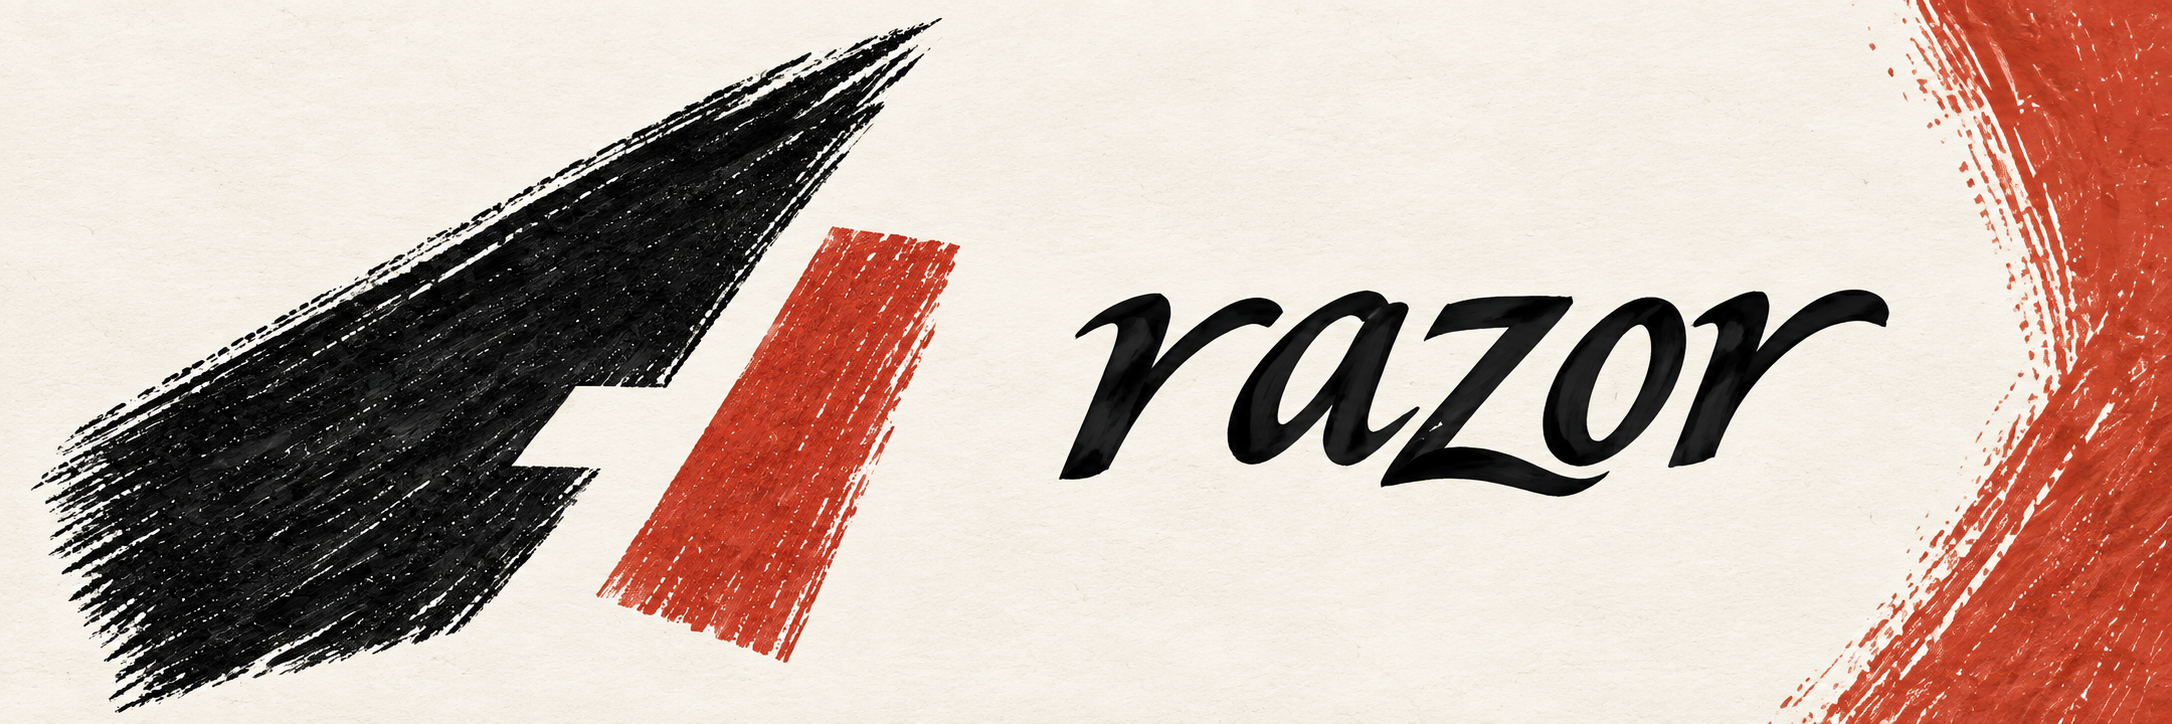
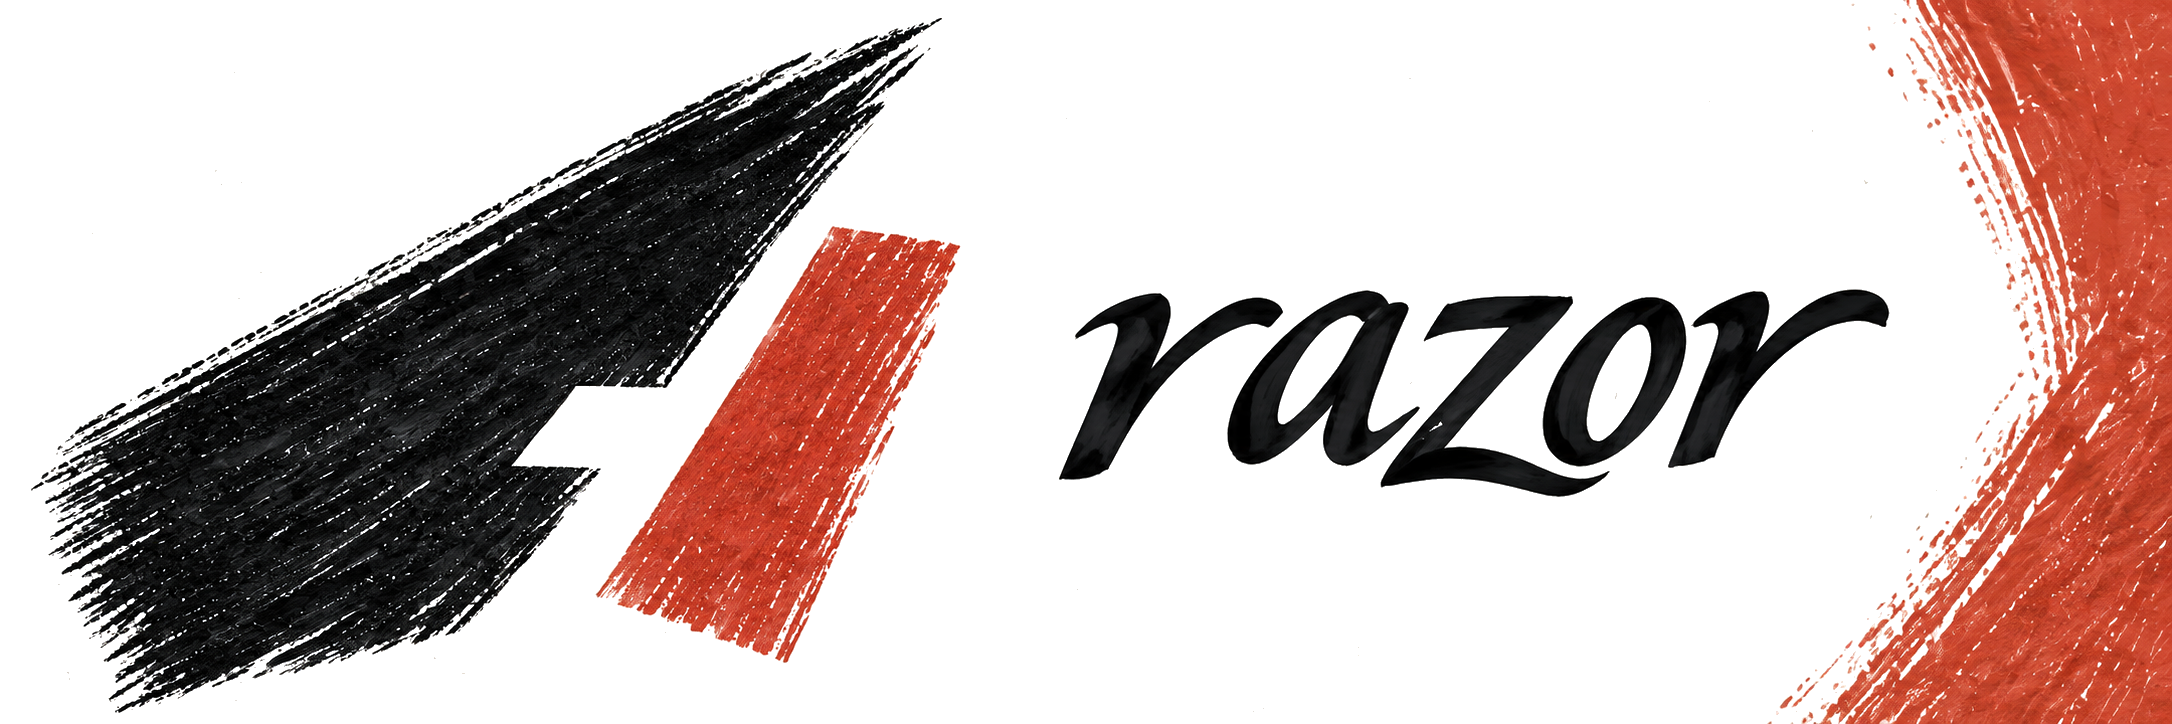
Restore product heroes and refine branding presentation (#7)

diff --git a/README.md b/README.md
@@ -16,6 +16,19 @@
 
 > **TL;DR** — Before adding code, ask whether the project already has what it needs.
 
+<!-- foundry:hero -->
+<p align="center"><img src="assets/hero.svg" alt="Razor original product visualization" width="700"></p>
+
+Original Claude Code benchmark visualization. These measurements describe the recorded Claude sessions, not Codex performance. [Evidence and methodology](https://github.com/V-Songbird/foundry/tree/main/docs/razor).
+
+<details>
+<summary>Watch the recorded Claude Code demo</summary>
+
+<p align="center"><img src="assets/demo.svg" alt="Recorded Claude Code demonstration of Razor" width="700"></p>
+
+</details>
+<!-- /foundry:hero -->
+
 <p align="center"><img src="assets/mascot.svg" alt="Ember clears away extra packages and helper boxes, leaving only the requested work." width="700"></p>
 
 ## What is this?

diff --git a/CHANGELOG.md b/CHANGELOG.md
@@ -4,6 +4,10 @@ All notable changes to razor are documented here. Looking for a version
 number? It lives in the [foundry marketplace](https://github.com/V-Songbird/foundry)
 listing — that's why `plugin.json` here carries none.
 
+## 1.5.11 — 2026-09-09
+
+Restore the original product hero and recorded Claude demo with clear provenance. Use white light-theme banners.
+
 ## 1.5.10 — 2026-09-09
 
 New Tinta y oficio banners adapt to light and dark GitHub themes.
